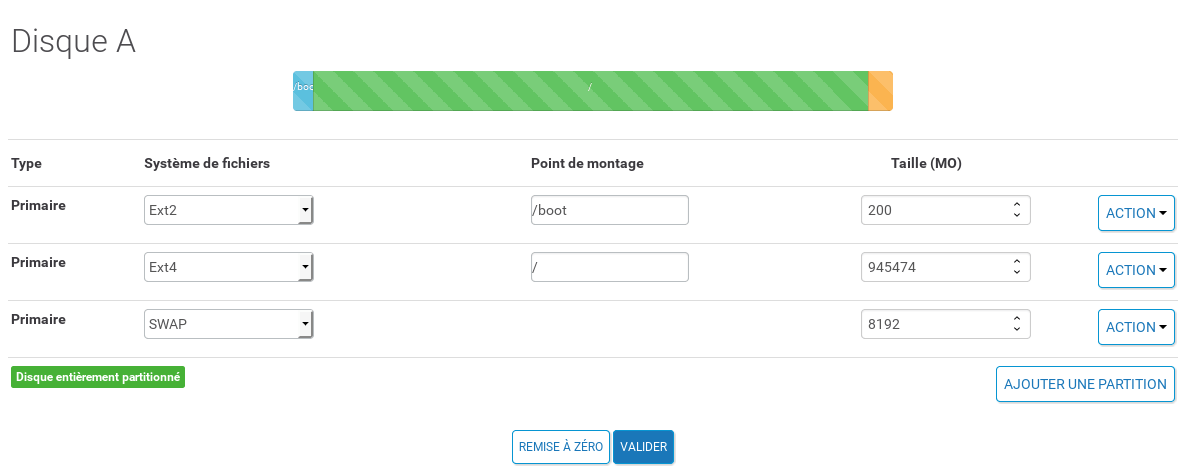
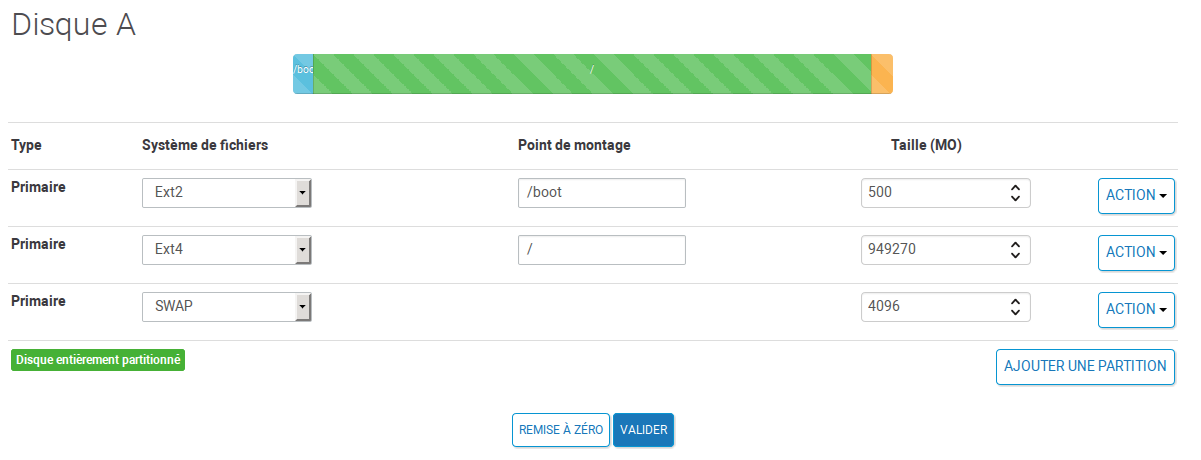
...

diff --git a/cours/Install-Dedibox-CentOS-7.md b/cours/Install-Dedibox-CentOS-7.md
@@ -37,11 +37,11 @@ Online propose un schéma de partitionnement par défaut, que nous allons modifi
 
   1. Réduire la taille de la partition principale pour avoir un peu de marge.
 
-  2. Augmenter la taille de la partition d’échange : 8192 Mo.
+  2. Augmenter la taille de la partition `/boot` : 500 Mo.
 
-  3. La taille de la partition `/boot` est convenable : 200 Mo.
+  3. La partition `/boot` sera formatée en `ext2`.
 
-  4. La partition `/boot` sera formatée en `ext2`.
+  4. Augmenter la taille de la partition d’échange : 4096 Mo.
 
   5. Remplir l’espace disponible pour la partition principale.
 
